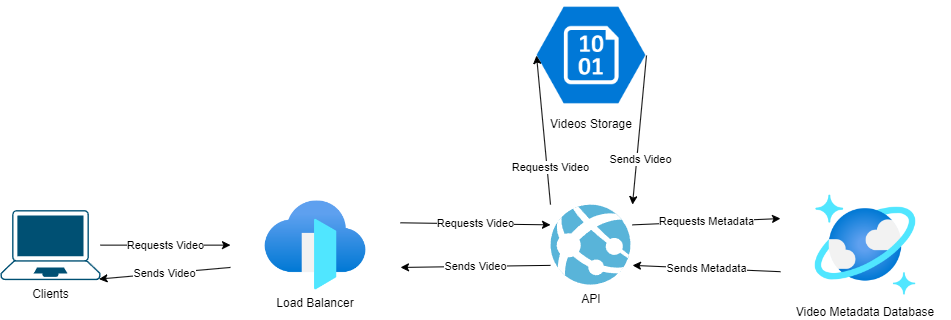
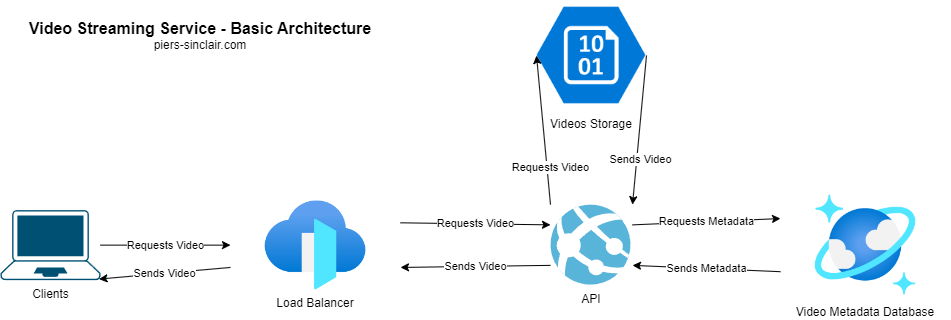
Additional diagrams

Changed region(s): [[0.0305, 0.0625, 0.3964, 0.1562]]

diff --git a/_posts/2024-06-15-System-Design-in-Azure-for-clients-Video-Streaming-Service.md b/_posts/2024-06-15-System-Design-in-Azure-for-clients-Video-Streaming-Service.md
@@ -159,17 +159,31 @@ However, this isn't the best solution for the video data because there is going 
 
 We also need to decide on a sharding strategy. Video ID is an easy default decision to make, since it is easy to understand, and is simple for upload and viewing of videos. However, it's worth noting that by sharding on Video ID our search functionality will be slower. Search would likely be a lot better in a relational database or using a different sharding strategy. Since scalability and performance of viewing and uploading videos is far more important, this is an acceptance trade-off.
 
-![Storing a Short URL](/assets/diagrams/2024-06-15-System-Design-in-Azure-for-Clients-Video-Streaming-Service/1.png)\
+![Basic architecture for video playback](/assets/diagrams/2024-06-15-System-Design-in-Azure-for-Clients-Video-Streaming-Service/1.png)\
 **Figure: Basic architecture for video playback**
 
 ### 3. How do we ensure videos load quickly?
 
 So we've got our basic infrastructure, but now we need to ensure videos always load quickly globally. There's a few things that can help:
+- Separate App Servers for Upload, View and Search
 - Transcoding Videos
 - A CDN
-- Separate App Servers for Upload, View and Search
+
+### 3.1 Separate App Servers for Upload, View and Search
+
+Uploading is a significantly more demanding task than view and search. We don't want users to be blocked from watching videos because someone is currently uploading a video.
+
+Similarly view is a more demanding task than search. Both view and search are likely to have a huge volume of requests. We wouldn't want searching to be slowed by requests for video streams and vice versa. 
+
+So it's better if we modularize these services into different app servers.
+
+
+![Split App Servers for better load balancing](/assets/diagrams/2024-06-15-System-Design-in-Azure-for-Clients-Video-Streaming-Service/2.png)\
+**Figure: Split App Servers for better load balancing**
 
 ### 3.1 Uploading - Transcoding
+
+
 
 Important for putting the data into multiple formats e.g. 360p, 720p, 1080p, 2160p etc
 
